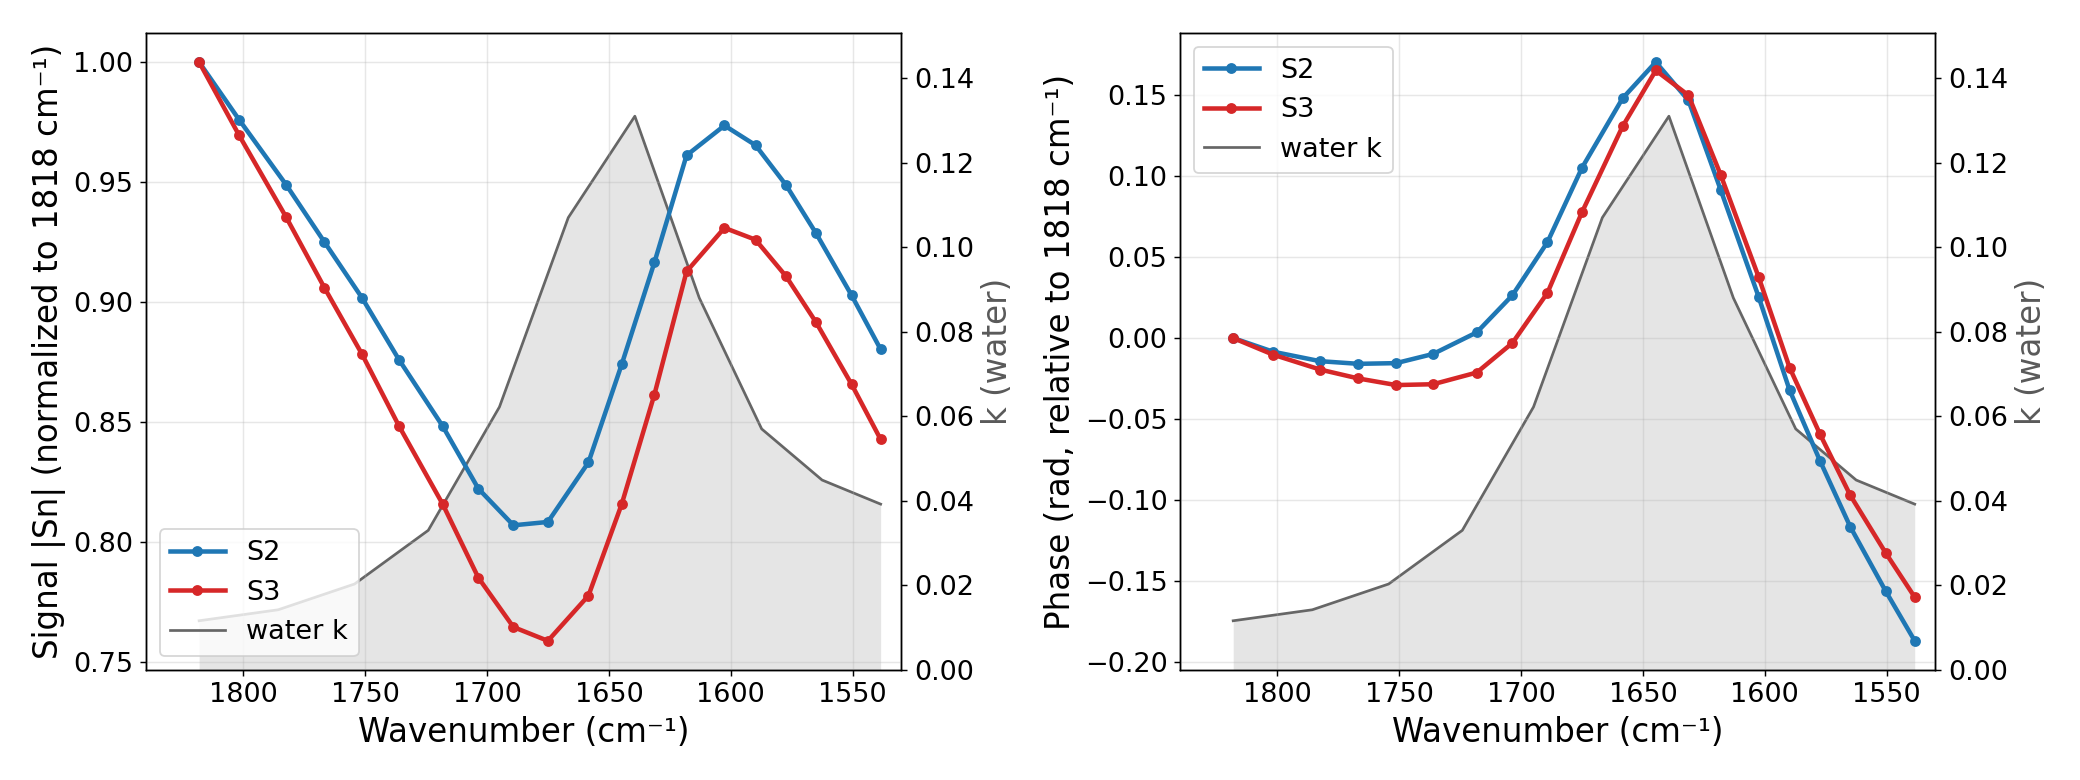
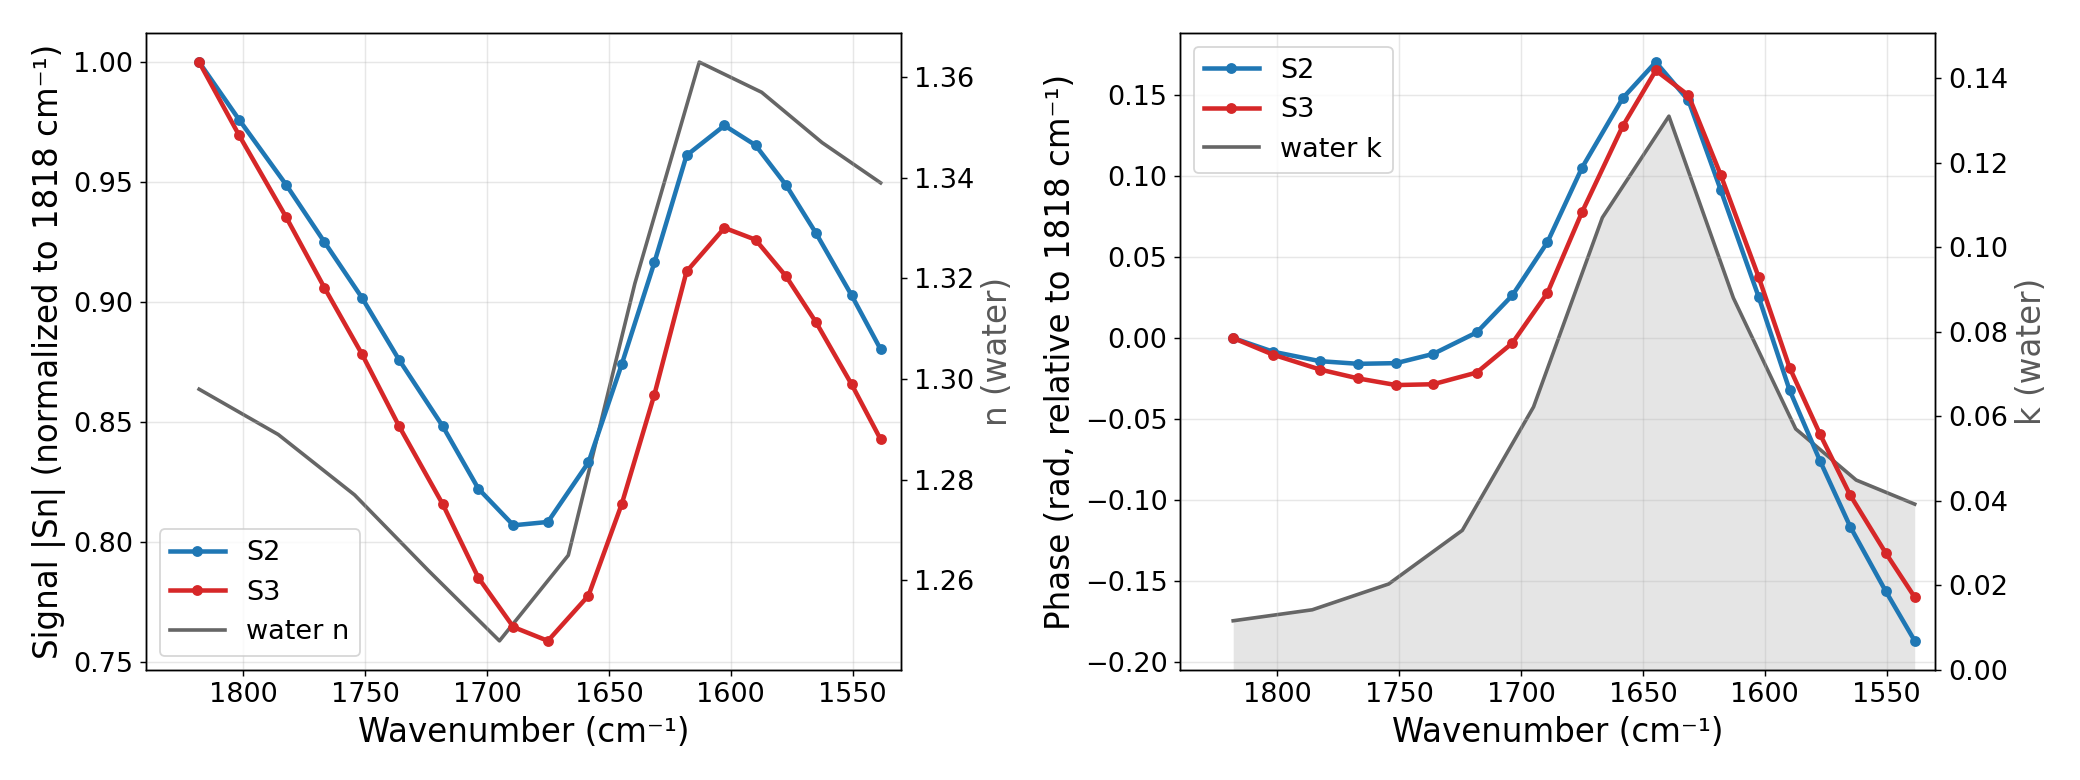
HOH replot: signal vs water n, phase vs water k

diff --git a/HOH_band_replot/replot_hoh.py b/HOH_band_replot/replot_hoh.py
@@ -211,10 +211,14 @@ def normal_with_k(f='SNx_Water_Simple/results_example.pkl'):
         fig, axs = plt.subplots(1, 2, figsize=(16, 6))
         for col, (ax, kind) in enumerate(zip(axs, ('signal', 'phase'))):
             tk = ax.twinx()
-            tk.fill_between(1e4/d_w[m, 0], 0, d_w[m, 2], color='0.6', alpha=0.25, lw=0)
-            tk.plot(1e4/d_w[m, 0], d_w[m, 2], '-', color='0.4', lw=1.5, label='water k')
-            tk.set_ylim(0, d_w[m, 2].max()*1.15)
-            tk.set_ylabel('k (water)', color='0.35')
+            col_w = 1 if kind == 'signal' else 2                     # signal <-> n, phase <-> k
+            yw = d_w[m, col_w]
+            name = 'n' if kind == 'signal' else 'k'
+            if kind == 'phase':
+                tk.fill_between(1e4/d_w[m, 0], 0, yw, color='0.6', alpha=0.25, lw=0)
+                tk.set_ylim(0, yw.max()*1.15)
+            tk.plot(1e4/d_w[m, 0], yw, '-', color='0.4', lw=2, label=f'water {name}')
+            tk.set_ylabel(f'{name} (water)', color='0.35')
             for n, c in ((2, 'C0'), (3, 'C3')):
                 S = np.array([res[x][n - 2] for x in wl])
                 y = np.abs(S)/np.abs(S[0]) if kind == 'signal' else np.unwrap(np.angle(S)) - np.angle(S[0])
